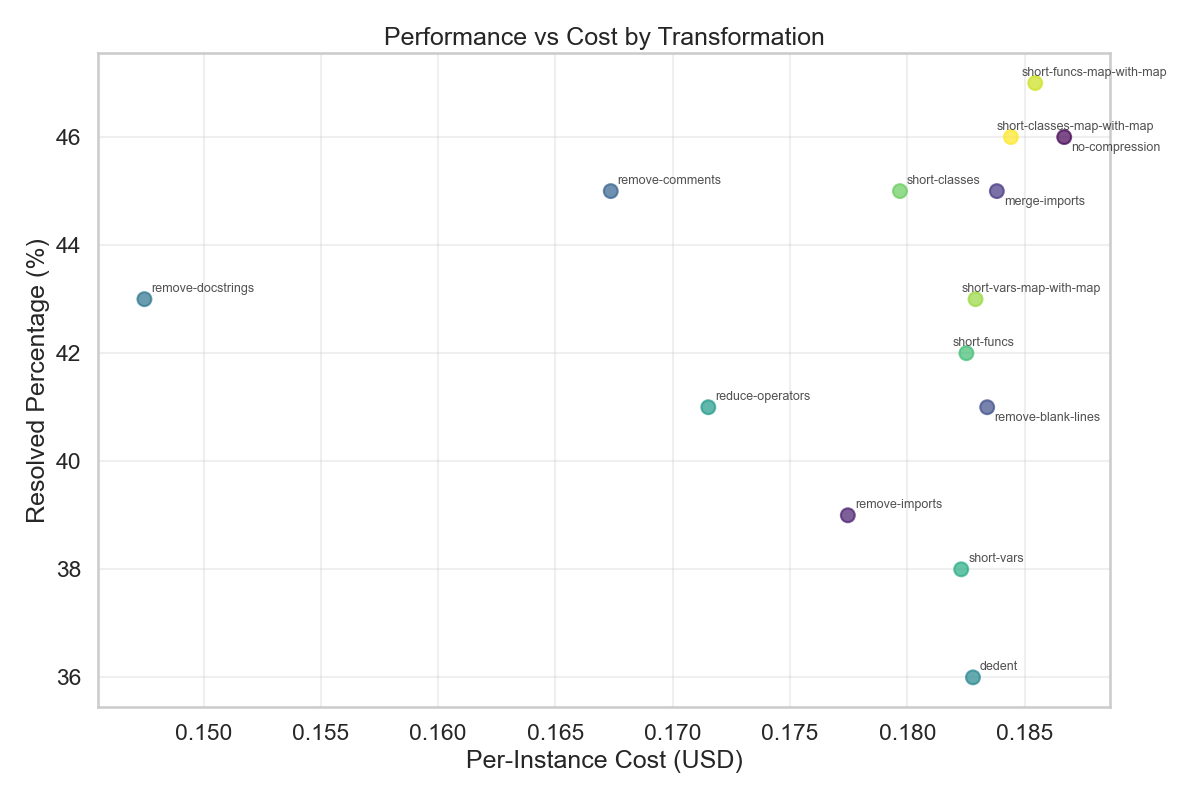
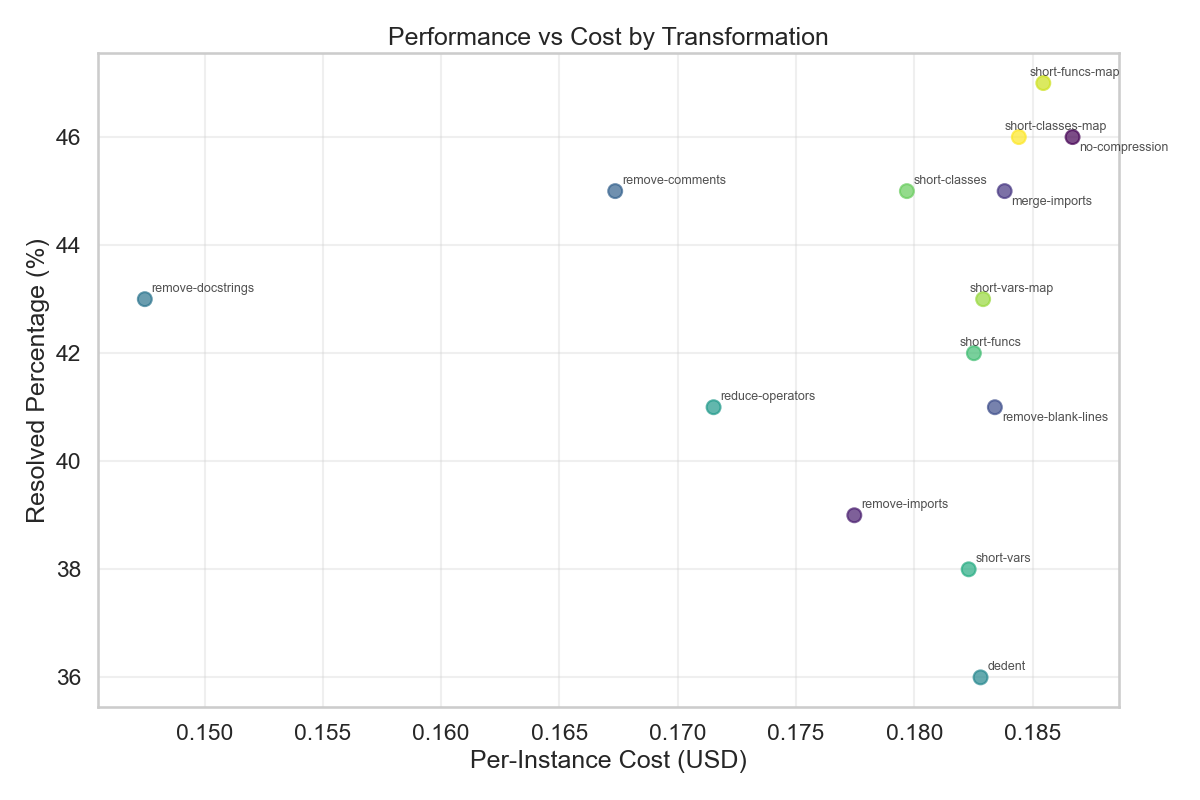
Update plots

diff --git a/analysis/individual_transforms.py b/analysis/individual_transforms.py
@@ -8,6 +8,18 @@ from agent.minify import DEFINED_TRANSFORMATIONS
 
 sns.set_theme(style="whitegrid", context="talk")
 
+
+def transform_name_for_display(transformation_name):
+    if transformation_name.endswith("-map-with-map"):
+        return transformation_name.replace("-map-with-map", "-map")
+    elif transformation_name.endswith("-map") and not transformation_name.endswith(
+        "-map-with-map"
+    ):
+        return transformation_name.replace("-map", "")
+    else:
+        return transformation_name
+
+
 base_path_evals = Path(
     "/Users/nicolashrubec/dev/agent-state-management/data/eval_results"
 )
@@ -43,7 +55,7 @@ excluded_transformations = ["short-vars-map", "short-funcs-map", "short-classes-
 
 results_data = []
 individual_results_data = []
-obfuscation_ablation_data = []
+renaming_ablation_data = []
 
 for eval_transform, metric_transform in zip(
     eval_transform_names, metrics_transform_names
@@ -79,12 +91,12 @@ for eval_transform, metric_transform in zip(
     if eval_transform not in excluded_transformations:
         individual_results_data.append(result_dict)
 
-    # For obfuscation ablation: include transformations with and without map
+    # For renaming ablation: include transformations with and without map
     if any(
         transform in eval_transform
         for transform in ["short-vars", "short-funcs", "short-classes"]
     ):
-        obfuscation_ablation_data.append(result_dict)
+        renaming_ablation_data.append(result_dict)
 
 print("Individual Transformations Analysis")
 print("=" * 80)
@@ -95,7 +107,7 @@ print("-" * 95)
 
 for result in results_data:
     print(
-        f"{result['transformation']:<35} {result['resolved_percentage']:<12.2f} {result['resolved_count']:<10} {result['avg_input_tokens']:<15.0f} {result['avg_output_tokens']:<15.0f} {result['total_cost']:<15.4f}"
+        f"{transform_name_for_display(result['transformation']):<35} {result['resolved_percentage']:<12.2f} {result['resolved_count']:<10} {result['avg_input_tokens']:<15.0f} {result['avg_output_tokens']:<15.0f} {result['total_cost']:<15.4f}"
     )
 
 print("-" * 95)
@@ -138,7 +150,7 @@ for i, row in df_results.iterrows():
         x_offset = -10
 
     plt.annotate(
-        row["transformation"],
+        transform_name_for_display(row["transformation"]),
         (row["total_cost"], row["resolved_percentage"]),
         xytext=(x_offset, y_offset),
         textcoords="offset points",
@@ -157,7 +169,7 @@ plt.show()
 plt.figure(figsize=(14, 8))
 df_results = df_results.sort_values("resolved_percentage", ascending=False)
 bars = plt.bar(
-    df_results["transformation"],
+    df_results["transformation"].apply(transform_name_for_display),
     df_results["resolved_percentage"],
     color="skyblue",
     edgecolor="navy",
@@ -220,7 +232,12 @@ for i, (input_cost, output_cost, total_cost) in enumerate(
 plt.xlabel("Transformation")
 plt.ylabel("Per-Instance Cost (USD)")
 plt.title("Input vs Output Costs by Transformation")
-plt.xticks(x_pos, df_results["transformation"], rotation=45, ha="right")
+plt.xticks(
+    x_pos,
+    df_results["transformation"].apply(transform_name_for_display),
+    rotation=45,
+    ha="right",
+)
 plt.legend()
 plt.grid(True, alpha=0.3, axis="y")
 plt.tight_layout()
@@ -304,21 +321,26 @@ bars4 = plt.bar(
 plt.xlabel("Transformation")
 plt.ylabel("Percentage of Instances (%)")
 plt.title("Breakdown of Instance Outcomes by Transformation")
-plt.xticks(x_pos, transformations, rotation=45, ha="right")
+plt.xticks(
+    x_pos,
+    [transform_name_for_display(t) for t in transformations],
+    rotation=45,
+    ha="right",
+)
 plt.legend(title="Outcome", bbox_to_anchor=(1.05, 1), loc="upper left")
 plt.ylim(0, 100)
 plt.grid(True, alpha=0.3, axis="y")
 plt.tight_layout()
 plt.show()
 
-# Obfuscation ablation plot
+# Renaming ablation plot
 plt.figure(figsize=(12, 8))
-df_obfuscation = pd.DataFrame(obfuscation_ablation_data)
+df_renaming = pd.DataFrame(renaming_ablation_data)
 
-with_map = df_obfuscation[df_obfuscation["transformation"].str.contains("map-with-map")]
-without_map = df_obfuscation[
-    ~df_obfuscation["transformation"].str.contains("map-with-map")
-    & df_obfuscation["transformation"].str.contains("map")
+with_map = df_renaming[df_renaming["transformation"].str.contains("map-with-map")]
+without_map = df_renaming[
+    ~df_renaming["transformation"].str.contains("map-with-map")
+    & df_renaming["transformation"].str.contains("map")
 ]
 
 plt.scatter(
@@ -339,9 +361,9 @@ plt.scatter(
 )
 
 # add labels
-for _, row in df_obfuscation.iterrows():
+for _, row in df_renaming.iterrows():
     plt.annotate(
-        row["transformation"],
+        transform_name_for_display(row["transformation"]),
         (row["total_cost"], row["resolved_count"]),
         xytext=(5, 5),
         textcoords="offset points",
@@ -351,7 +373,7 @@ for _, row in df_obfuscation.iterrows():
 
 plt.xlabel("Per-Instance Cost (USD)")
 plt.ylabel("Number of Resolved Instances")
-plt.title("Obfuscation with vs without in-context map")
+plt.title("Renaming Identifiers with vs without in-context map")
 plt.legend()
 plt.grid(True, alpha=0.3)
 plt.tight_layout()
@@ -373,5 +395,5 @@ for item in breakdown_data:
     empty_patches = performance["empty_patch_instances"]
 
     print(
-        f"{eval_transform:<35} {resolved:<10} {unresolved:<12} {errors:<8} {empty_patches:<15}"
+        f"{transform_name_for_display(eval_transform):<35} {resolved:<10} {unresolved:<12} {errors:<8} {empty_patches:<15}"
     )

diff --git a/analysis/stacked_transforms.py b/analysis/stacked_transforms.py
@@ -12,7 +12,7 @@ TRANSFORMATION_COMBINATIONS = OrderedDict(
     [
         ("No Compression", {"eval_name": "no-compression", "transformations": []}),
         (
-            "+ Obfuscate",
+            "+ Rename Identifiers",
             {
                 "eval_name": "obscure",
                 "transformations": [
